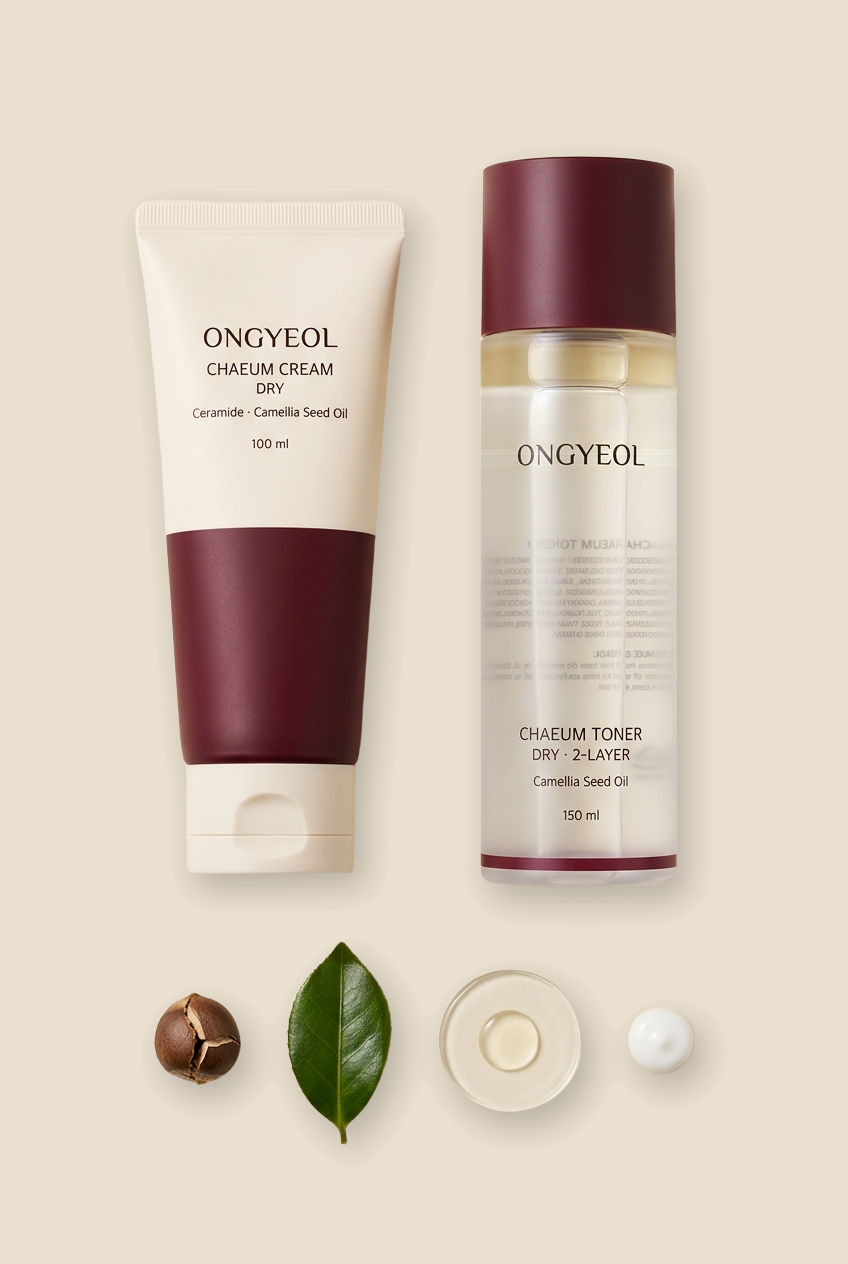
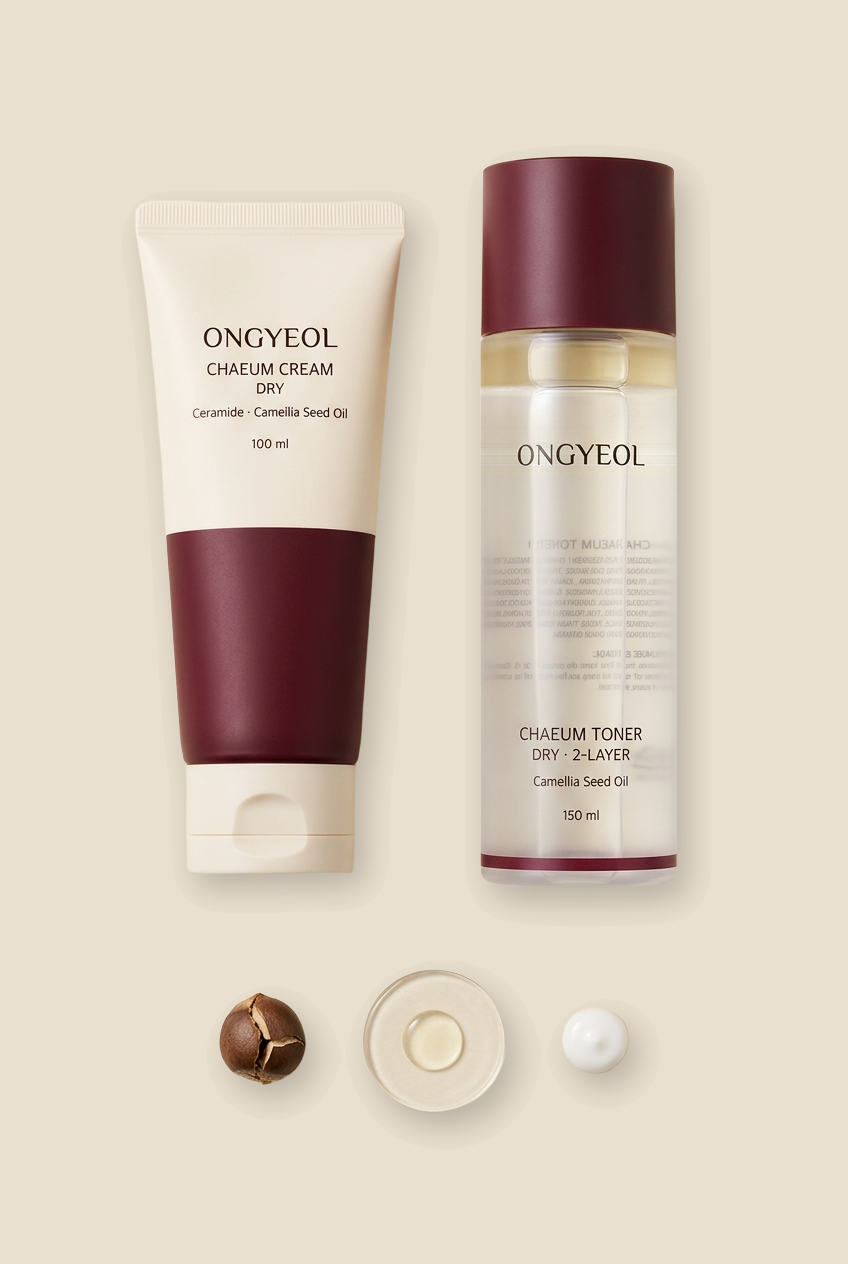
8단계 리뷰 결정 9개 반영: 광고 부제·잎 제거·상세페이지·원고(처방 가이드, 수량·손익, 같은 기준 채널표, KPI) + 장별 수정 목록
Claude-Session: https://claude.ai/code/session_01MXYaLybSstgexbFSnpQ7Pc

Changed region(s): [[0.184, 0.7405, 0.8278, 0.9256]]

diff --git a/상세페이지/건성듀오.html b/상세페이지/건성듀오.html
@@ -20,17 +20,17 @@ section{padding:0 0 36px}.label{font-size:12px;letter-spacing:.12em;color:var(--
 .two{display:grid;grid-template-columns:1fr 1fr;gap:1px;background:#e6ddd3;margin:0 24px 20px}.two div{background:var(--bg);padding:18px 14px}.two b{display:block;font-family:'Noto Serif KR',serif;font-size:20px;margin-bottom:6px}.two .lock b{color:var(--wine)}.two span{font-size:13px;line-height:1.6;color:#5c5052}
 .cap{padding:10px 24px 0}
 .metrics{margin:0 24px;display:grid;gap:12px}.metrics div{border:1px solid #e0d5c9;padding:16px}.metrics b{display:block;font-size:16px}.metrics span{display:block;font-size:13px;color:#5c5052;margin:4px 0}.metrics em{font-style:normal;font-size:12px;color:var(--wine)}
-.proof .note{padding:10px 24px 0}
+.proof .note{padding:10px 24px 0}.proof .slogan{padding:40px 24px 0;margin:0;font-size:20px}
 .ing h2{font-size:22px;padding:22px 24px 8px}.ing p{padding:0 24px 22px;font-size:14px;line-height:1.75}
 .how ol{padding:0 24px 0 44px;font-size:14px;line-height:1.75}.how li{margin-bottom:12px}.tip{margin:8px 24px 0;background:#fff;padding:16px;font-size:13px;line-height:1.7}.tip b{color:var(--wine)}
 .info table{margin:0 24px;width:calc(100% - 48px)}
 .ft{padding:28px 24px 40px;font-size:11px;color:#8c8082;line-height:1.7;border-top:1px solid #e6ddd3}
 </style></head><body><div class="page"><header class="hd"><p class="small">ONGYEOL · 가을 출시 듀오</p><h1>온결 채움 듀오 DRY</h1><p class="sub">채움 크림 DRY 100ml + 채움 토너 DRY 150ml</p></header>
-<section class="hero"><img src="../디자인/이미지/선택/v9_D1.png" alt="채움 크림 DRY"><div class="hero-copy"><h2>밤에 바르면<br>아침까지 안 당기는</h2><p class="serif slogan">마르지 않게, 무너지지 않게</p><p class="note">※ '아침까지 안 당기는' 사용감은 출시 전 사용감 평가로 확인한 범위에서만 표기합니다. (가상 시나리오)</p></div></section>
+<section class="hero"><img src="../디자인/이미지/선택/v9_D1.png" alt="채움 크림 DRY"><div class="hero-copy"><h2>밤에 바르면<br>아침까지 안 당기는</h2><p class="note">※ '아침까지 안 당기는' 사용감은 출시 전 사용감 평가로 확인한 범위에서만 표기합니다. (가상 시나리오)</p></div></section>
 <section class="worry"><p class="label">이런 피부라면</p><ul><li>세안하고 몇 분 지나면 얼굴이 당긴다</li><li>오후가 되면 볼에 각질이 일어난다</li><li>크림을 두 번 발라도 아침이면 다시 건조하다</li></ul></section>
-<section class="concept"><p class="label">채우고, 잠그는 장벽</p><div class="two"><div class="fill"><b>채움</b><span>물층의 수분이<br>각질층을 촉촉하게</span></div><div class="lock"><b>잠금</b><span>동백 씨오일이<br>얇은 막으로 마무리</span></div></div><img src="../디자인/이미지/선택/합성_D6.png" alt="밤의 루틴"><p class="small cap">바를 때는 수분감, 마무리는 얇은 막 — 두 단계로 바뀌는 텍스처</p></section>
-<section class="proof"><p class="label">두 가지를 함께 측정합니다</p><div class="metrics"><div><b>각질층 수분량</b><span>채움 — 수분이 얼마나 머무는가</span><em>수치는 시험 후 공개</em></div><div><b>경피수분손실(TEWL)</b><span>잠금 — 수분이 얼마나 덜 빠져나가는가</span><em>수치는 시험 후 공개</em></div></div><p class="note">측정 예정 지표 · 시험기관 / 기간 / 대상 / 인원은 시험 후 각주로 표기합니다. (가상 시나리오)</p></section>
-<section class="ing"><p class="label">대표 원료</p><img src="../디자인/이미지/선택/합성_D5.png" alt="동백 씨"><h2>동백 씨오일</h2><p>꽃이 아니라 <b>씨앗</b>에서 얻은 오일로, 수분을 채운 뒤 얇게 잠그는 역할을 맡습니다. 세라마이드와 함께 크림의 마무리감을 만듭니다.</p><img src="../디자인/이미지/선택/보정_D8.png" alt="원료와 제형"></section>
+<section class="concept"><p class="label">채우고, 잠그는 장벽</p><div class="two"><div class="fill"><b>채움</b><span>바를 때는<br>촉촉한 수분감</span></div><div class="lock"><b>잠금</b><span>마무리는<br>얇은 막으로</span></div></div><img src="../디자인/이미지/선택/합성_D6.png" alt="밤의 루틴"><p class="small cap">바를 때는 수분감, 마무리는 얇은 막 — 두 단계로 바뀌는 텍스처</p></section>
+<section class="proof"><p class="serif slogan">마르지 않게, 무너지지 않게</p><p class="label">두 가지를 함께 측정합니다 · 채움 크림 DRY 시험 기준</p><div class="metrics"><div><b>각질층 수분량</b><span>채움 — 수분이 얼마나 머무는가</span><em>수치는 시험 후 공개</em></div><div><b>경피수분손실(TEWL)</b><span>잠금 — 수분이 얼마나 덜 빠져나가는가</span><em>수치는 시험 후 공개</em></div></div><p class="note">측정 예정 지표 · 시험기관 / 기간 / 대상 / 인원은 시험 후 각주로 표기합니다. (가상 시나리오)</p></section>
+<section class="ing"><p class="label">대표 원료</p><img src="../디자인/이미지/선택/합성_D5.png" alt="동백 씨"><h2>동백 씨오일</h2><p>꽃이 아니라 <b>씨앗</b>에서 얻은 오일로, 세라마이드·스쿠알란과 함께 크림과 토너의 마무리감을 만듭니다.</p><img src="../디자인/이미지/선택/보정_D8_정렬.png" alt="원료와 제형"></section>
 <section class="how"><p class="label">사용법</p><ol><li><b>토너</b> 물층과 오일층이 잘 섞이도록 흔든 뒤, 눈을 감고 10~20cm 거리에서 얼굴 전체에 두세 번 뿌려 주세요.</li><li><b>크림</b> 적당량을 덜어 얼굴 전체에 펴 바른 뒤 가볍게 감싸 주세요.</li></ol><div class="tip"><b>수분은 부족한데 번들거린다면</b><p>번들거림이 신경 쓰이는 날엔 조금 더 멀리서 가볍게, 당김이 남는 곳엔 한 번 더 뿌려 보세요.</p></div></section>
 <section class="info"><p class="label">제품 정보</p><table><tr><th>구성</th><td>채움 크림 DRY 100ml · 채움 토너 DRY 150ml (2층 스프레이 토너)</td></tr><tr><th>주요 성분</th><td>세라마이드, 동백 씨오일(토너 오일층 약 5%)</td></tr><tr><th>용기</th><td>크림: 불투명 튜브 / 토너: 반투명 PET + 미세분사 펌프 + 오버캡</td></tr><tr><th>전성분 · 고시</th><td>가상 처방으로 미정 (가상 시나리오)</td></tr></table></section>
 <footer class="ft"><p>온결(가칭)은 면접용 포트폴리오를 위한 가상 브랜드입니다.</p><p>제품 이미지는 AI로 생성한 가상 브랜드 목업입니다 (일부 합성·보정).</p></footer></div></body></html>

diff --git a/상세페이지/지성듀오.html b/상세페이지/지성듀오.html
@@ -20,16 +20,16 @@ section{padding:0 0 36px}.label{font-size:12px;letter-spacing:.12em;color:var(--
 .two{display:grid;grid-template-columns:1fr 1fr;gap:1px;background:#e6ddd3;margin:0 24px 20px}.two div{background:var(--bg);padding:18px 14px}.two b{display:block;font-family:'Noto Serif KR',serif;font-size:20px;margin-bottom:6px}.two .lock b{color:var(--wine)}.two span{font-size:13px;line-height:1.6;color:#5c5052}
 .cap{padding:10px 24px 0}
 .metrics{margin:0 24px;display:grid;gap:12px}.metrics div{border:1px solid #e0d5c9;padding:16px}.metrics b{display:block;font-size:16px}.metrics span{display:block;font-size:13px;color:#5c5052;margin:4px 0}.metrics em{font-style:normal;font-size:12px;color:var(--wine)}
-.proof .note{padding:10px 24px 0}
+.proof .note{padding:10px 24px 0}.proof .slogan{padding:40px 24px 0;margin:0;font-size:20px}
 .ing h2{font-size:22px;padding:22px 24px 8px}.ing p{padding:0 24px 22px;font-size:14px;line-height:1.75}
 .how ol{padding:0 24px 0 44px;font-size:14px;line-height:1.75}.how li{margin-bottom:12px}.tip{margin:8px 24px 0;background:#fff;padding:16px;font-size:13px;line-height:1.7}.tip b{color:var(--wine)}
 .info table{margin:0 24px;width:calc(100% - 48px)}
 .ft{padding:28px 24px 40px;font-size:11px;color:#8c8082;line-height:1.7;border-top:1px solid #e6ddd3}
 </style></head><body><div class="page"><header class="hd"><p class="small">ONGYEOL · 봄 출시 듀오</p><h1>온결 채움 듀오 OILY</h1><p class="sub">채움 젤크림 OILY 100ml + 채움 토너 OILY 150ml</p></header>
-<section class="hero"><img src="../디자인/이미지/선택/v9_O5.png" alt="채움 듀오 OILY"><div class="hero-copy"><h2>가볍게 채우고,<br>얇게 잠그는</h2><p class="serif slogan">마르지 않게, 무너지지 않게</p><p class="note">※ 사용감 표현은 출시 전 사용감 평가로 확인한 범위에서만 표기합니다. (가상 시나리오)</p></div></section>
+<section class="hero"><img src="../디자인/이미지/선택/v9_O5.png" alt="채움 듀오 OILY"><div class="hero-copy"><h2>가볍게 채우고,<br>얇게 잠그는</h2><p class="note">※ 사용감 표현은 출시 전 사용감 평가로 확인한 범위에서만 표기합니다. (가상 시나리오)</p></div></section>
 <section class="worry"><p class="label">이런 피부라면</p><ul><li>T존은 번들거리는데 볼은 당긴다</li><li>가벼운 젤만 쓰면 겨울엔 금방 건조해진다</li><li>크림을 바르면 무겁고 답답하다</li></ul></section>
 <section class="concept"><p class="label">채우고, 잠그는 장벽 — 가볍게</p><div class="two"><div class="fill"><b>채움</b><span>오일 없는 한 층 토너로<br>수분을 가볍게</span></div><div class="lock"><b>잠금</b><span>젤크림의 가벼운 유분으로<br>얇게 마무리</span></div></div><img src="../디자인/이미지/선택/v10_O8.png" alt="아침 햇빛 속 듀오"><p class="small cap">건성 라인은 토너와 크림이 함께 잠그고, 지성 라인은 토너는 채움만 · 잠금은 젤크림이 맡습니다</p></section>
-<section class="proof"><p class="label">두 가지를 함께 측정합니다</p><div class="metrics"><div><b>각질층 수분량</b><span>채움 — 수분이 얼마나 머무는가</span><em>수치는 시험 후 공개</em></div><div><b>경피수분손실(TEWL)</b><span>잠금 — 수분이 얼마나 덜 빠져나가는가</span><em>수치는 시험 후 공개</em></div></div><p class="note">측정 예정 지표 · 시험기관 / 기간 / 대상 / 인원은 시험 후 각주로 표기합니다. (가상 시나리오)</p></section>
+<section class="proof"><p class="serif slogan">마르지 않게, 무너지지 않게</p><p class="label">두 가지를 함께 측정합니다 · 채움 젤크림 OILY 시험 기준</p><div class="metrics"><div><b>각질층 수분량</b><span>채움 — 수분이 얼마나 머무는가</span><em>수치는 시험 후 공개</em></div><div><b>경피수분손실(TEWL)</b><span>잠금 — 수분이 얼마나 덜 빠져나가는가</span><em>수치는 시험 후 공개</em></div></div><p class="note">측정 예정 지표 · 시험기관 / 기간 / 대상 / 인원은 시험 후 각주로 표기합니다. (가상 시나리오)</p></section>
 <section class="ing"><p class="label">제형과 성분</p><img src="../디자인/이미지/선택/v9_O1.png" alt="젤 제형"><h2>세라마이드 · 히알루론산</h2><p>투명하고 가벼운 젤에 세라마이드와 히알루론산을 담았습니다. 동백 씨오일은 건성 라인에만 넣고, 지성 라인은 유분을 적게 설계했습니다.</p><img src="../디자인/이미지/선택/v10_O7.png" alt="라벨 디테일"></section>
 <section class="how"><p class="label">사용법</p><ol><li><b>토너</b> 눈을 감고 10~20cm 거리에서 얼굴 전체에 두세 번 뿌려 주세요.</li><li><b>젤크림</b> 적당량을 덜어 얇게 펴 바르고, 당김이 남는 곳에 한 번 더 덧발라 주세요.</li></ol><div class="tip"><b>번들거림이 신경 쓰이는 날엔</b><p>젤크림은 볼 위주로 얇게, T존은 손에 남은 양으로 가볍게 정리해 보세요.</p></div></section>
 <section class="info"><p class="label">제품 정보</p><table><tr><th>구성</th><td>채움 젤크림 OILY 100ml · 채움 토너 OILY 150ml (한 층 스프레이 토너)</td></tr><tr><th>주요 성분</th><td>세라마이드, 히알루론산 (토너는 오일층 없는 한 층)</td></tr><tr><th>용기</th><td>젤크림: 불투명 튜브 / 토너: 반투명 PET + 미세분사 펌프 + 오버캡 (건성 토너와 같은 병)</td></tr><tr><th>전성분 · 고시</th><td>가상 처방으로 미정 (가상 시나리오)</td></tr></table></section>

diff --git a/광고/v5/src/명조_세로.html b/광고/v5/src/명조_세로.html
@@ -1,2 +1,2 @@
 <!DOCTYPE html><html><head><meta charset='utf-8'><style>:root{--w:1080px;--h:1350px;--u:10.8px;--fs:1.4}@import url('https://cdn.jsdelivr.net/gh/orioncactus/pretendard@v1.3.9/dist/web/static/pretendard.min.css');@font-face{font-family:'OSerif';src:url(fonts/NotoSerifKR-500.woff2);font-weight:500}@font-face{font-family:'OSerif';src:url(fonts/NotoSerifKR-700.woff2);font-weight:700}*{margin:0;padding:0;box-sizing:border-box}body{width:var(--w);height:var(--h);overflow:hidden;font-family:Pretendard,sans-serif;position:relative;background:#EAE0CF;color:#521827}img{position:absolute;display:block}.txt{position:absolute}.k{font-size:calc(var(--u)*2.2);letter-spacing:.2em;opacity:.75;font-family:Pretendard,sans-serif;font-weight:500}.h{line-height:1.3;margin:3.2% 0;white-space:nowrap}.s{line-height:1.55;opacity:.85}.fine{position:absolute;font-size:calc(var(--u)*var(--fs));opacity:.6;line-height:1.5}
-.serif .h{font-family:'OSerif',serif;font-weight:700}.serif .s{font-family:'OSerif',serif;font-weight:500}.sans .h{font-weight:700}.sans .s{font-weight:500}.h{font-size:calc(var(--u)*6.2)}.s{font-size:calc(var(--u)*2.8)}img{left:50%;top:0;height:66%;transform:translateX(-50%)}.txt{left:6%;right:6%;top:68%;text-align:center}.fine{left:6%;right:6%;bottom:2.5%;text-align:center}</style></head><body class='serif'><img src='../../../디자인/이미지/선택/보정_D8_정렬.png'><div class='txt'><p class='k'>ONGYEOL · 채움 듀오 DRY</p><h1 class='h'>밤에 바르면<br>아침까지 안 당기는</h1><p class='s'>토너로 채우고, 크림으로 잠그는 밤 루틴</p></div><p class='fine'>※ 사용감 표현은 출시 전 평가 범위 내 표기 (가상 시나리오) · AI 생성 가상 목업(일부 보정)</p></body></html>
+.serif .h{font-family:'OSerif',serif;font-weight:700}.serif .s{font-family:'OSerif',serif;font-weight:500}.sans .h{font-weight:700}.sans .s{font-weight:500}.h{font-size:calc(var(--u)*6.2)}.s{font-size:calc(var(--u)*2.8)}img{left:50%;top:0;height:66%;transform:translateX(-50%)}.txt{left:6%;right:6%;top:68%;text-align:center}.fine{left:6%;right:6%;bottom:2.5%;text-align:center}</style></head><body class='serif'><img src='../../../디자인/이미지/선택/보정_D8_정렬.png'><div class='txt'><p class='k'>ONGYEOL · 채움 듀오 DRY</p><h1 class='h'>밤에 바르면<br>아침까지 안 당기는</h1><p class='s'>토너와 크림, 채우고 잠그는 밤 루틴</p></div><p class='fine'>※ 사용감 표현은 출시 전 평가 범위 내 표기 (가상 시나리오) · AI 생성 가상 목업(일부 보정)</p></body></html>

diff --git a/광고/v5/src/명조_정사각.html b/광고/v5/src/명조_정사각.html
@@ -1,2 +1,2 @@
 <!DOCTYPE html><html><head><meta charset='utf-8'><style>:root{--w:1080px;--h:1080px;--u:10.8px;--fs:1.4}@import url('https://cdn.jsdelivr.net/gh/orioncactus/pretendard@v1.3.9/dist/web/static/pretendard.min.css');@font-face{font-family:'OSerif';src:url(fonts/NotoSerifKR-500.woff2);font-weight:500}@font-face{font-family:'OSerif';src:url(fonts/NotoSerifKR-700.woff2);font-weight:700}*{margin:0;padding:0;box-sizing:border-box}body{width:var(--w);height:var(--h);overflow:hidden;font-family:Pretendard,sans-serif;position:relative;background:#EAE0CF;color:#521827}img{position:absolute;display:block}.txt{position:absolute}.k{font-size:calc(var(--u)*2.2);letter-spacing:.2em;opacity:.75;font-family:Pretendard,sans-serif;font-weight:500}.h{line-height:1.3;margin:3.2% 0;white-space:nowrap}.s{line-height:1.55;opacity:.85}.fine{position:absolute;font-size:calc(var(--u)*var(--fs));opacity:.6;line-height:1.5}
-.serif .h{font-family:'OSerif',serif;font-weight:700}.serif .s{font-family:'OSerif',serif;font-weight:500}.sans .h{font-weight:700}.sans .s{font-weight:500}.h{font-size:calc(var(--u)*4.8)}.s{font-size:calc(var(--u)*2.4);white-space:nowrap}img{left:-92px;top:0;height:100%}.txt{left:53%;right:4%;top:33%}.fine{left:53%;right:4%;bottom:4%}</style></head><body class='serif'><img src='../../../디자인/이미지/선택/보정_D8_정렬.png'><div class='txt'><p class='k'>ONGYEOL · 채움 듀오 DRY</p><h1 class='h'>밤에 바르면<br>아침까지 안 당기는</h1><p class='s'>토너로 채우고, 크림으로 잠그는 밤 루틴</p></div><p class='fine'>※ 사용감 표현은 출시 전 평가 범위 내 표기 (가상 시나리오) · AI 생성 가상 목업(일부 보정)</p></body></html>
+.serif .h{font-family:'OSerif',serif;font-weight:700}.serif .s{font-family:'OSerif',serif;font-weight:500}.sans .h{font-weight:700}.sans .s{font-weight:500}.h{font-size:calc(var(--u)*4.8)}.s{font-size:calc(var(--u)*2.4);white-space:nowrap}img{left:-92px;top:0;height:100%}.txt{left:53%;right:4%;top:33%}.fine{left:53%;right:4%;bottom:4%}</style></head><body class='serif'><img src='../../../디자인/이미지/선택/보정_D8_정렬.png'><div class='txt'><p class='k'>ONGYEOL · 채움 듀오 DRY</p><h1 class='h'>밤에 바르면<br>아침까지 안 당기는</h1><p class='s'>토너와 크림, 채우고 잠그는 밤 루틴</p></div><p class='fine'>※ 사용감 표현은 출시 전 평가 범위 내 표기 (가상 시나리오) · AI 생성 가상 목업(일부 보정)</p></body></html>

diff --git a/광고/v5/src/명조_배너.html b/광고/v5/src/명조_배너.html
@@ -1,2 +1,2 @@
 <!DOCTYPE html><html><head><meta charset='utf-8'><style>:root{--w:1200px;--h:628px;--u:6.28px;--fs:1.6}@import url('https://cdn.jsdelivr.net/gh/orioncactus/pretendard@v1.3.9/dist/web/static/pretendard.min.css');@font-face{font-family:'OSerif';src:url(fonts/NotoSerifKR-500.woff2);font-weight:500}@font-face{font-family:'OSerif';src:url(fonts/NotoSerifKR-700.woff2);font-weight:700}*{margin:0;padding:0;box-sizing:border-box}body{width:var(--w);height:var(--h);overflow:hidden;font-family:Pretendard,sans-serif;position:relative;background:#EAE0CF;color:#521827}img{position:absolute;display:block}.txt{position:absolute}.k{font-size:calc(var(--u)*2.2);letter-spacing:.2em;opacity:.75;font-family:Pretendard,sans-serif;font-weight:500}.h{line-height:1.3;margin:3.2% 0;white-space:nowrap}.s{line-height:1.55;opacity:.85}.fine{position:absolute;font-size:calc(var(--u)*var(--fs));opacity:.6;line-height:1.5}
-.serif .h{font-family:'OSerif',serif;font-weight:700}.serif .s{font-family:'OSerif',serif;font-weight:500}.sans .h{font-weight:700}.sans .s{font-weight:500}.h{font-size:calc(var(--u)*7.2)}.s{font-size:calc(var(--u)*3.2)}img{left:76px;top:0;height:100%}.txt{left:50%;right:4%;top:27%}.fine{left:50%;right:4%;bottom:5%}</style></head><body class='serif'><img src='../../../디자인/이미지/선택/보정_D8_정렬.png'><div class='txt'><p class='k'>ONGYEOL · 채움 듀오 DRY</p><h1 class='h'>밤에 바르면<br>아침까지 안 당기는</h1><p class='s'>토너로 채우고, 크림으로 잠그는 밤 루틴</p></div><p class='fine'>※ 사용감 표현은 출시 전 평가 범위 내 표기 (가상 시나리오) · AI 생성 가상 목업(일부 보정)</p></body></html>
+.serif .h{font-family:'OSerif',serif;font-weight:700}.serif .s{font-family:'OSerif',serif;font-weight:500}.sans .h{font-weight:700}.sans .s{font-weight:500}.h{font-size:calc(var(--u)*7.2)}.s{font-size:calc(var(--u)*3.2)}img{left:76px;top:0;height:100%}.txt{left:50%;right:4%;top:27%}.fine{left:50%;right:4%;bottom:5%}</style></head><body class='serif'><img src='../../../디자인/이미지/선택/보정_D8_정렬.png'><div class='txt'><p class='k'>ONGYEOL · 채움 듀오 DRY</p><h1 class='h'>밤에 바르면<br>아침까지 안 당기는</h1><p class='s'>토너와 크림, 채우고 잠그는 밤 루틴</p></div><p class='fine'>※ 사용감 표현은 출시 전 평가 범위 내 표기 (가상 시나리오) · AI 생성 가상 목업(일부 보정)</p></body></html>

diff --git a/포트폴리오/상품기획_포트폴리오.md b/포트폴리오/상품기획_포트폴리오.md
@@ -28,10 +28,10 @@
 
 | | |
 |---|---|
-| 경력 | 앤블랭크(andblank) — 반려견 의류·가방·산책용품·식기 라이프스타일 브랜드 (연 매출 약 10억 원) |
+| 경력 | 앤블랭크(andblank) — 반려견 의류·가방·산책용품·식기 라이프스타일 브랜드 |
 | 기간·직무 | 2021.01 정직원 ~ 2025.11 / 디자이너 + 생산관리 (기획, 디자인, 공장 관리) |
 | 역할 | 브랜드 제품 업무 95% 이상 참여 — 기획, 디자인, 생산(공장 관리) |
-| 성과 | 여름 시즌 '버그가드' 의류를 메인 상품으로 기획해 **월 매출 2억 원** 달성 |
+| 성과 | 여름 시즌 '버그가드' 관련 제품을 메인으로 기획 — 성수기 **브랜드 월 매출 2억 원** 달성 (버그가드 관련 제품이 판매 비중 최상위) |
 
 - **이 프로젝트와 이어지는 점**: 공장과 직접 일정·품질을 맞춰 본 경험은 화장품 ODM 관리와 패키지 개발로 이어진다. 시즌 상품 한 개에 집중해 매출을 만든 경험은 이 기획의 "가을 히어로 크림 하나로 겨울 성수기를 잡는" 전략과 같은 방식이다.
 - **고객을 보는 방식**: 리뷰(자사몰·외부 플랫폼), 전화 문의 응대, 펫페어 현장 판매(카운터 직접 운영)로 고객 반응을 세 갈래에서 확인했다.
@@ -164,11 +164,28 @@
 | 공통 원칙 | 저자극 처방 (무향, 색소 최소화). 소비자 문구로 '저자극'을 쓰려면 첩포시험 근거가 필요 | 같음 |
 
 - **가격은 제형이 아니라 단계로 매긴다** (토너 23,000원 / 세럼·크림 32,000원). 같은 장벽 라인에서 제형만 다른 크림을 같은 가격에 두는 사례가 있다 (에스트라 크림과 수딩크림 모두 80ml 33,000원, 수딩크림 가격은 판매처 표기·계산 기준 추정).
-- **건성 토너는 2층 스프레이**: 흔들면 수분층과 동백 씨오일층이 섞여 "채움 → 잠금"이 병 안에서 보인다. 150ml는 2층 오일 토너의 일반 용량에 맞추고 100ml 미스트와 겹치지 않게 했다. 오일 5%는 공개된 2층 토너(2.5~3%)보다 높은 건성용 설정으로, 처방 시험으로 확정한다 (가상 시나리오).
+- **건성 토너는 2층 스프레이**: 흔들면 수분층과 동백 씨오일층이 섞인다. 콘셉트 '채우고, 잠그는'이 병 안에서 보이도록 한 설계다 (효능 수치는 크림 시험 기준). 150ml는 2층 오일 토너의 일반 용량에 맞추고 100ml 미스트와 겹치지 않게 했다. 오일 5%는 공개된 2층 토너(2.5~3%)보다 높은 건성용 설정으로, 처방 시험으로 확정한다 (가상 시나리오).
 - **동백은 건성 라인 전체**에 넣고, 지성 라인은 유분을 줄이는 처방이라 넣지 않는다.
 - 민감은 피부 타입이 아니라 상태로 보고, 별도 콘셉트가 아니라 처방 원칙(저자극)으로 라인 전체에 적용했다.
 
 > 근거: `기획서/상품기획서.md` 0-1·3-6·4-3, `경쟁분석_토너젤크림.md`
+
+---
+
+## 6-1. 처방 가이드 — 채움 크림 DRY와 2층 토너 (가상 처방 방향)
+
+| 항목 | 채움 크림 DRY | 채움 토너 DRY (2층) |
+|---|---|---|
+| 제형 방향 | 수상 비율이 높은 크림 → 바를 때 수분감, 흡수 후 지질 성분이 얇게 남는 2단 텍스처 | 아래 수분층 + 위 오일층(약 5%), 흔들면 잠깐 섞였다 다시 나뉨 |
+| 채움 성분 | 히알루론산, 글리세린, 판테놀 | 글리세린, 히알루론산 (수분층) |
+| 잠금 성분 | 세라마이드 조합(세라마이드엔피 등) + 콜레스테롤 + 지방산 — 피부 지질과 비슷한 구성, 스쿠알란, 동백 씨오일 | 동백 씨오일(Camellia Japonica Seed Oil) 중심 오일층 |
+| 동백 씨오일 | 에몰리언트로 세라마이드·스쿠알란과 함께 마무리감 | 오일층의 주인공 — 전성분에서 오일 중 앞에 오도록 처방 조건 |
+| 공통 원칙 | 향료 무첨가, 색소 최소화. '저자극' 문구는 첩포시험 근거가 있을 때만 | 같음 + 펌프 막힘·층 분리 안정성 시험 |
+
+- 성분명을 제품명에 넣지 않았다 (라인명 '채움'). 핵심 성분 함량은 제조사 처방 확정 후 표기한다.
+- 위 내용은 제조사 처방 전의 방향이다. 실제 원료·비율은 ODM 처방 역량과 안정도 시험으로 정한다.
+
+> 근거: `기획서/상품기획서.md` 0-1·4-3 (장벽 성분 구성), `아침확인_1120.md` (오일 5%·펌프 사양), `건성지성_라인_오일조사.md`
 
 ---
 
@@ -179,20 +196,40 @@
 - **원가 20% 가정의 근거**: 올리브영 직매입 공급가(소비자가의 60%) 기준으로 원가율 약 33%가 되어 업종 평균 매출원가율 40%보다 낮은 목표다. 시험비 배분, 동백 원료 원가, 최소 주문 수량은 견적 전이라 반영하지 않았다.
 - 타사와 가격·용량을 비교하는 광고는 하지 않는다 (비교 대상과 근거를 밝혀야 하고, 상대 가격이 바뀌면 사실과 달라진다).
 
-**채널별 남는 금액 (히어로 32,000원, 원가 20% 가정)**
+**채널별 남는 금액 — 같은 기준 (히어로 1개, 원가 20% 가정)**
 
-| 채널 | 수수료 | 남는 금액 |
-|---|---|---|
-| 자사몰 | 3% (가정) | 77% |
-| 스마트스토어 | 7% (가정) | 73% |
-| 올리브영 온라인 | 29.36% | 51% |
-| 올리브영 매장 | 40% | 40% |
-| 올리브영 매장 (부대비용 포함) | 54.74% | 25% |
+자체 채널은 정가 32,000원, 올리브영은 25% 할인 24,000원에 판다고 보고, 모든 채널에서 원가(6,400원)·수수료·광고비(판매가의 19%)·물류(판매가의 11.5%)를 뺐다.
 
-- 위 표는 수수료만 뺀 값이다 (할인·광고비·물류비·미니 증정 원가 차감 전). 자사몰·스마트스토어 수치는 결제 수수료만 반영했다. 물류·포장비를 더하면 낮아진다 (참고: 달바 2025 운반비는 매출의 약 11.5%, DART 기준 계산).
-- 올리브영에서 25% 할인 판매(24,000원)하고 광고비(판매가의 19%)를 빼면, 온라인은 판매가의 약 25%가 남고 매장(부대비용 포함)은 약 −98원으로 손익분기 수준이 된다 → **올리브영은 수익이 아니라 노출을 사는 채널**로 보고, 수익은 자체 채널이 맡는다.
+| 채널 | 판매가 | 수수료 | 남는 금액 | 판매가 대비 |
+|---|---|---|---|---|
+| 자사몰 | 32,000원 | 3% (가정) | 14,880원 | 46.5% |
+| 스마트스토어 | 32,000원 | 7% (가정) | 13,600원 | 42.5% |
+| 올리브영 온라인 | 24,000원 | 29.36% | 3,234원 | 13.5% |
+| 올리브영 매장 | 24,000원 | 40% | 680원 | 2.8% |
+| 올리브영 매장 (부대비용 포함) | 24,000원 | 54.74% | −2,858원 | −11.9% |
+
+- 물류 11.5%는 달바 2025 운반비/매출 비율(DART 기준 계산)을 빌린 가정이다. 올리브영 센터 입고는 개별 배송보다 쌀 수 있어 보수적인 값이다.
+- 미니 증정(토너 30ml + 크림 10ml)은 듀오 1건당 원가 약 1,500원 가정 → 듀오 정가 55,000원의 약 2.7%를 더 뺀다 (견적 전).
+- → **올리브영은 수익이 아니라 노출을 사는 채널**로 보고, 수익은 자체 채널이 맡는다.
 
 > 근거: 공정위 실태조사 인용 보도(2026-01 보도, 거래 기준 연도 확인 필요), 업종 평균 광고비율 리포트, `기획서/상품기획서.md` 4-2·4-2-1. 원가 20%와 자사몰 수수료는 견적 전 가정 (가상 시나리오)
+
+---
+
+## 7-1. 수량·손익 — 얼마나 만들고, 몇 개 팔아야 하나 (가상 시나리오)
+
+| 항목 | 값 (가정) | 근거 |
+|---|---|---|
+| 초도 생산 | 크림 3,000개 · 2층 토너 3,000개 | 첫 겨울 듀오 주문 2,000~2,500건(8-1 역산) + 체험단 300 + 안전재고. 대형 ODM이 인디 브랜드 MOQ를 1,000개 단위로 낮췄다는 보도(신뢰도 중간) |
+| 미니 | 토너 30ml · 크림 10ml 각 3,000개 | 듀오 구매자·체험단 증정 |
+| 개당 남는 금액 | 자사몰 14,880원 / 스마트스토어 13,600원 | 7장 같은 기준 표 |
+| 손익분기 판매량 | 고정비 ÷ 개당 남는 금액. 예: 고정비 2,000만 원(인체적용시험 + 체험단 420만~640만 원 + 디자인·촬영) → 자사몰 기준 약 1,350개 | 시험비·디자인비는 견적 전 가정 |
+| 첫 겨울 매출 목표 | 듀오 2,000~2,500건 × 55,000원 = 약 1.1억~1.4억 원 (정가 기준) | 8-1 리뷰 역산 주문 수 |
+
+- 재고 리스크: 초도 수량이 첫 겨울 판매보다 많으면 사용기한 안에 봄 재판매·올리브영 입점 기획 세트로 소진한다.
+- 실제 값은 ODM 2~3곳 MOQ·단가, 시험기관 견적으로 확정한다.
+
+> 근거: `기획서/규제_시험조사.md` 4장 (MOQ 보도), `런칭마케팅조사.md`, 7장 표
 
 ---
 
@@ -255,7 +292,7 @@
 > 🖼 `광고/v5/명조_정사각·세로·배너.png` — 광고 확정안
 > 🖼 `상세페이지/미리보기_상·하.jpg` — 건성 듀오 상세페이지 모바일 화면
 
-- **광고 (확정안)**: 크림·토너와 원료·제형 4개(동백 씨앗, 동백 잎 소품, 동백 씨오일, 크림 제형)를 위아래로 정렬한 플랫레이. 배경은 제품 사진과 같은 아이보리 한 톤, 글자는 와인 명조. 헤드라인 "밤에 바르면 아침까지 안 당기는", 부제 "토너로 채우고, 크림으로 잠그는 밤 루틴". 정사각·세로·배너 3사이즈.
+- **광고 (확정안)**: 크림·토너와 원료·제형 3개(동백 씨앗, 동백 씨오일, 크림 제형)를 위아래로 정렬한 플랫레이. 배경은 제품 사진과 같은 아이보리 한 톤, 글자는 와인 명조. 헤드라인 "밤에 바르면 아침까지 안 당기는", 부제 "토너와 크림, 채우고 잠그는 밤 루틴" (효능을 제품별로 나누지 않는다 — 두 지표는 크림 한 제품으로 시험). 정사각·세로·배너 3사이즈.
   - 왜 이렇게: 경쟁의 흰색 + 파랑, 물방울 연출과 겹치지 않고, 원료가 제품 바로 아래 보이도록 해 대표 원료(동백 씨오일)가 함께 읽히도록 의도했다. 헤드라인은 성분이 아니라 고객이 느끼는 시간(밤 → 아침)이라 감각을 전하는 명조를 썼다.
   - 사용감 표현은 출시 전 평가 범위 안에서만 쓴다는 각주를 광고에 넣었다 (가상 시나리오).
 - **상세페이지**: 본문에는 가격·증정·리필을 넣지 않았다 (판매 정보는 상품 옵션 영역에서 다룬다는 전제). 사용법은 "흔든 뒤, 눈을 감고 10~20cm 거리에서 두세 번".
@@ -293,7 +330,7 @@
 | 시점 | 할 일 |
 |---|---|
 | T-12개월 | 콘셉트·히어로 확정, 제조사 선정, 처방 착수 |
-| T-9개월 | 처방 확정, 안정도 시험, 용기(튜브) 선정 |
+| T-9개월 | 처방 확정, 안정도 시험(2층 토너 층 분리·펌프 막힘 포함), 용기(튜브·스프레이 펌프) 선정 |
 | T-6개월 | 인체적용시험 시작 (각질층 수분량 + TEWL, 4주 사용 기준) |
 | T-3개월 | 시험 결과 확보, 패키지·상세페이지 확정, 생산 발주 |
 | T-1개월 | 생산·입고, 자사몰·스마트스토어 등록 |
@@ -324,7 +361,9 @@
 
 | 시점 | 지표 | 목표 (가정) | 왜 |
 |---|---|---|---|
-| 첫 겨울 끝 | 리뷰 수 (체험단 + 구매) | 500건 (체험단 300 + 구매 200) | 올리브영 MD에게 보여줄 지표. 1,000건은 역산 결과 비현실적이라 하향 |
+| 첫 겨울 끝 | 구매 리뷰 수 (자사몰·스마트스토어) | 200건 | 실제 구매자의 반응. 1,000건은 역산 결과 비현실적이라 전체 500건으로 하향 |
+| 첫 겨울 끝 | 체험단 콘텐츠 수 | 300건 | 초기 노출·검색 콘텐츠 (판매 지표와 분리) |
+| 첫 겨울 끝 | 주간 판매량 (자체 채널) | 기준선 확보 | 올리브영 MD에게 보여줄 판매 속도 |
 | 첫 겨울 끝 | 아침 당김 만족도 (구매자 설문) | 측정 | 고객 약속(아침까지 안 당김)이 실제로 느껴지는지 |
 | 첫 겨울 끝 | 히어로 재구매율 | 측정 시작, 기준선 확보 | 크림은 재구매가 핵심 |
 | 첫 겨울 끝 | 컬리 수수료 후 공헌이익 | 자사몰 대비 비교 | 외부 채널 확장 판단 |
@@ -385,7 +424,7 @@
 장벽 크림은 리뷰 1위가 있을 만큼 큰 카테고리지만, 세라마이드 중심이라 제품 간 차이가 작습니다. 건성과 수분 부족 지성을 합치면 20~49세 여성의 약 절반(오픈서베이 2022)이고, 공통 고민이 "수분이 머물지 않는다"입니다. 그래서 "밤에 바르면 아침까지 안 당기는" 장벽 크림을 히어로로, 건성이 늘기 시작하는 30대를 주 타깃으로 기획했습니다.
 
 **Q2. 아토베리어365, 피지오겔 DMT와 뭐가 다른가요? 피지오겔도 보습·장벽 수치를 내는데요.**
-맞습니다. 피지오겔도 보습 유지와 장벽 개선 수치를 각주와 함께 공개하고, 실증 자체는 이미 업계 관행입니다. 고객이 저희를 고르는 이유는 "밤에 바르면 아침까지 안 당긴다"는 시간 약속과, 바를 때 수분감에서 얇은 막으로 바뀌는 제형입니다. 증명 방식의 차이는 두 가지입니다. 첫째, 콘셉트 문장 "채우고, 잠그는"부터 라인명, 원료 역할, 패키지 앞면 두 칸, 상세페이지 실증 구간까지 같은 두 지표(각질층 수분량, 수분 손실)로 끝까지 이어지게 설계했습니다. 둘째, 시험기관·대상·기간·측정 시점을 전부 공개하고, '잠금'은 바른 직후가 아니라 지속 시점으로 측정합니다. 피지오겔과 표현('속건조·장벽케어')이 겹쳐 콘셉트 문장도 바꿨습니다.
+맞습니다. 피지오겔도 보습 유지와 장벽 개선 수치를 각주와 함께 공개하고, 실증 자체는 이미 업계 관행입니다. 고객이 저희를 고르는 이유는 "밤에 바르면 아침까지 안 당긴다"는 시간 약속과, 바를 때 수분감에서 얇은 막으로 바뀌는 제형입니다. 증명 방식의 차이는 두 가지입니다. 첫째, 콘셉트 문장 "채우고, 잠그는"부터 라인명, 원료 역할, 원료 역할, 상세페이지 실증 구간까지 같은 두 지표(각질층 수분량, 수분 손실)로 끝까지 이어지게 설계했습니다. 둘째, 시험기관·대상·기간·측정 시점을 전부 공개하고, '잠금'은 바른 직후가 아니라 지속 시점으로 측정합니다. 피지오겔과 표현('속건조·장벽케어')이 겹쳐 콘셉트 문장도 바꿨습니다.
 
 **Q3. 동백은 라운드랩도 쓰는데 왜 동백인가요?**
 라운드랩 동백 라인은 판매처 표기상 동백꽃 추출물을 탄력 포지션으로 씁니다. 저희는 동백 씨오일을 건성 라인의 '잠금' 상징으로 씁니다. 잠금의 주역은 세라마이드와 스쿠알란이고, 동백 씨오일은 에몰리언트로 함께 맡습니다. 제주 산지 스토리는 라운드랩도 쓰기 때문에 차별점으로 두지 않았습니다. 같은 종(*C. japonica*) 오일 연구는 소규모라 효능은 자체 시험으로만 말합니다.
@@ -439,7 +478,7 @@
 아직은 출시 전 시험 계획입니다. 마지막 도포 후 약 8시간 시점의 수분량·수분 손실 측정과 아침 당김 사용감 설문을 시험에 넣고, 결과 범위 안에서만 그 문장을 씁니다. 결과가 약하면 표현을 낮춥니다.
 
 **Q20. 화장품 업계 경험이 없고, 기획·디자인 인력은 여성이 많은 시장인데 어떻게 고객을 이해하나요?**
-고객 이해는 성별보다 조사와 검증 방식에서 나온다고 봅니다. 이 기획에서는 피부 타입 조사(오픈서베이 1,500명)로 타깃을 정했고, 리뷰·사용법 문구를 직접 비교해 고객 언어("속당김", "수부지")로 썼습니다. 이전 회사에서는 자사몰·외부 플랫폼 리뷰, 고객 전화 문의, 메가주 펫페어 현장 반응을 모두 봤습니다. 전화 문의에는 직접 설명하고 해결 방법을 제시해 오히려 만족도가 올라갔고, 펫페어에서는 카운터를 맡아 계산·응대하며 어떤 상품이 할인 없이도 팔리는지 직접 확인했습니다. 이렇게 본 고객 반응으로 여름 시즌 상품을 키워 월 매출 2억 원을 만들었습니다.
+고객 이해는 성별보다 조사와 검증 방식에서 나온다고 봅니다. 이 기획에서는 피부 타입 조사(오픈서베이 1,500명)로 타깃을 정했고, 리뷰·사용법 문구를 직접 비교해 고객 언어("속당김", "수부지")로 썼습니다. 이전 회사에서는 자사몰·외부 플랫폼 리뷰, 고객 전화 문의, 메가주 펫페어 현장 반응을 모두 봤습니다. 전화 문의에는 직접 설명하고 해결 방법을 제시해 오히려 만족도가 올라갔고, 펫페어에서는 카운터를 맡아 계산·응대하며 어떤 상품이 할인 없이도 팔리는지 직접 확인했습니다. 이렇게 본 고객 반응으로 여름 시즌 '버그가드' 관련 제품을 키웠고, 성수기 브랜드 월 매출 2억 원을 만들었습니다. 그달 판매 비중이 가장 높은 제품군이 버그가드였습니다.
 
 **Q21. 2층 스프레이면 달바 퍼스트 스프레이 세럼과 같은 것 아닌가요?**
 형식(2층·흔들어 분사)은 비슷하지만 제품이 다릅니다. 달바는 공식몰에서 '스프레이 세럼(페이셜 미스트)'으로 분류하고 토너를 따로 둡니다. 온결은 세안 직후 첫 단계인 토너이고, 오일층의 주인공이 동백 씨오일로 크림의 '잠금' 앞 단계 역할을 맡습니다. 2층 오일 토너는 이미 시장에 있어서 형식이 아니라 "건성 장벽 라인 + 동백 씨오일 + 150ml 토너"의 조합으로 차별합니다.

diff --git a/기획서/장별수정_1123.md b/기획서/장별수정_1123.md
@@ -1,0 +1,77 @@
+# Figma 장별 수정 목록 (2026-11-23)
+
+- 대상: Figma "포트폴리오 v1 (21장)" → **23장**으로 바뀐다 (처방 가이드·수량/손익 추가, 키비주얼 이동)
+- 반영: 현업 리뷰 결정 9개 (1-1, 2-A, 3-A, 4-A, 5-A, 6-A, 7-A, 8-A, 9-A) + 송현준 피드백(문단 나눔·정렬, 마지막 장 누끼)
+- 공통 정렬·문단 규칙은 `기획서/Figma_직접수정_1123.md` 1·2장. 아래 "정렬"은 그 규칙을 그 장에 적용하라는 뜻.
+- 새 이미지 파일 (모두 main에 있음):
+  - `디자인/이미지/선택/보정_D8_정렬.png` — 동백 잎을 뺀 플랫레이 (3-A)
+  - `광고/v5/명조_정사각.png`, `명조_세로.png` — 부제 "토너와 크림, 채우고 잠그는 밤 루틴" + 잎 없음 (1-1, 3-A)
+  - `상세페이지/미리보기_상.jpg`, `미리보기_하.jpg` — 상세페이지 새 캡처 (1-1, 2-A, 3-A)
+  - `디자인/누끼/합성_D6_누끼.png` — 마지막 장 누끼
+- **이미지 바꾸는 법**: 이미지 사각형 선택 → 오른쪽 Fill의 이미지 썸네일 클릭 → "Choose image" → 새 파일. 맞춤 방식(Fill/Fit)은 그대로 둔다.
+- **장 번호**: 순서를 바꾼 뒤 각 장 왼쪽 위 숫자(01~23)와 프레임 이름을 새 번호로 고친다.
+
+---
+
+| 새 번호 | 현재 프레임 | 할 일 |
+|---|---|---|
+| 01 표지 | 01 | ① 오른쪽 이미지를 새 `보정_D8_정렬.png`로 교체 (잎 없음) ② 정렬 |
+| 02 지원자 소개 | 02 | ① 경력 칸: "(연 매출 약 10억 원)" 삭제 ② 성과 칸을 다음으로 교체: **여름 시즌 '버그가드' 관련 제품을 메인으로 기획 — 성수기 브랜드 월 매출 2억 원 달성 (버그가드 관련 제품이 판매 비중 최상위)** ③ 핵심 메시지 줄: "시즌 상품 하나로 월 매출 2억 원을 만들었다" → **"시즌 메인 제품을 기획해 성수기 브랜드 월 매출 2억 원을 만들었다"** ④ 오른쪽 단 문단 정리 |
+| 03 기획 배경 | 03 | 카드 4개 설명 줄바꿈 정리 ("(화장품 18.1조 원 중," 뒤, "2025 올리브영 어워즈" 한 줄) |
+| 04 타깃 | 04 | 오른쪽 단 줄바꿈 정리 |
+| 05 페르소나 | 05 | (반영 완료: 지호 구매 장면 "네이버 쇼핑·화해") 정렬만 |
+| 06 경쟁 분석 | 06 | 정렬만 |
+| 07 콘셉트 | 07 | 정렬만 |
+| 08 히어로 | 08 | 불릿 3개 줄바꿈 정리 |
+| 09 라인 구성 | 09 | ① (반영 완료: 건성 이미지 합성_D6) ② 오른쪽 아래 설명 교체: **"건성 토너는 흔들면 수분층과 동백 씨오일층이 섞인다 — 콘셉트 '채우고, 잠그는'이 병 안에서 보이도록 설계. 효능 수치는 크림 시험 기준. 동백은 건성 라인에만."** |
+| **10 처방 가이드 (새 장)** | 09를 복제 (Ctrl+D) | 아래 "새 장 10" 내용으로 제목·메시지·표를 바꾸고 이미지 2개와 오른쪽 설명은 지운다 |
+| 11 가격 전략 | 10 | ① 오른쪽 차트 제목: **"채널별 남는 금액 — 같은 기준 (원가·수수료·광고비 19%·물류 11.5% 차감)"** ② 막대 값 교체 (막대 길이 = 값 × 9px): 자사몰 **46.5%**, 스마트스토어 **42.5%**, 올리브영 온라인 **13.5%**, 올리브영 매장 **2.8%**, 매장+부대비용 **−11.9%** (마지막은 막대 없이 "−11.9% (손실)" 글자만) ③ 왼쪽 셋째 불릿 설명: **"같은 기준으로 올리브영 온라인 13.5%, 매장(부대비용 포함) −11.9%. 수익은 자체 채널이 맡는다."** ④ 출처 줄 끝에 **" · 물류 11.5%는 달바 2025 운반비율 참고 가정"** 추가 |
+| **12 수량·손익 (새 장)** | 10(가격)을 복제 | 아래 "새 장 12" 내용으로 바꾸고 차트는 지운다 |
+| 13 채널·출시 | 11 | ① 오른쪽 이미지 삭제 (4-A) ② 오른쪽 아래 AI 고지 문구 삭제 (이미지가 없어졌으므로) ③ 타임라인 4칸을 오른쪽 끝(1780)까지 넓힘: 칸 간격 310 → **410**, 선 길이 1220 → **1640** ④ 아래 불릿 폭 1640 ⑤ 핵심 메시지 폭 1640 |
+| 14 런칭 마케팅 | 12 | 정렬만 |
+| 15 브랜딩 | 13 | 핵심 메시지 글 상자 폭 1640으로 넓혀 한 줄로 |
+| 16 광고·상세페이지 | 14 | ① 광고 이미지 2개를 새 `명조_정사각.png`, `명조_세로.png`로 교체 ② 상세 이미지 2개를 새 `미리보기_상.jpg`, `미리보기_하.jpg`로 교체 ③ 핵심 메시지 끝의 **"(잎은 소품, 처방 원료 아님)" 삭제** (잎을 뺐으므로) ④ 오른쪽 첫 불릿 설명 교체: **"\"밤에 바르면 아침까지 안 당기는\" — 고객이 느끼는 시간이라 감각을 전하는 명조. 부제 \"토너와 크림, 채우고 잠그는 밤 루틴\"은 효능을 제품별로 나누지 않는다."** ⑤ 둘째 불릿 끝에 **" 슬로건은 실증 구간에만."** 추가 |
+| 17 패밀리룩 | 15 | ① 표 첫 열 "아래 칸 색" → **"라인 색"** ② 건성 둘째 이미지(보정_D8, 잎 있음)를 새 `보정_D8_정렬.png`로 교체 (3-A와 맞춤) |
+| 18 키비주얼 점검 | 20 → **17 뒤로 이동** | ① 프레임을 패밀리룩 바로 뒤 자리로 옮긴다 ② 오른쪽 좁은 단 폭을 늘리거나 두 줄씩 나눔 |
+| 19 실행 계획 | 16 | T-9개월 줄 교체: **"처방 확정, 안정도 시험(2층 토너 층 분리·펌프 막힘 포함), 용기(튜브·스프레이 펌프) 선정"** |
+| 20 리스크 | 17 | 정렬만 |
+| 21 성과 지표 | 18 | 표 첫 데이터 행(리뷰 수 500건)을 아래 3행으로 교체 (7-A): ① 첫 겨울 끝 / **구매 리뷰 수 (자사몰·스마트스토어)** / **200건** / 실제 구매자 반응. 전체 리뷰 목표는 역산으로 500건 ② 첫 겨울 끝 / **체험단 콘텐츠 수** / **300건** / 초기 노출·검색 콘텐츠 (판매 지표와 분리) ③ 첫 겨울 끝 / **주간 판매량 (자체 채널)** / **기준선 확보** / 올리브영 MD에게 보여줄 판매 속도. 굵게 표시는 둘째 행 → 첫 행 '200건'으로 |
+| 22 레퍼런스 달바 | 19 | 정렬만 (반영 완료: 마지막 행 문구) |
+| 23 마무리 | 21 | 누끼 시안 3 적용: ① 왼쪽 사진 삭제 ② `합성_D6_누끼.png`를 넣고 높이 760, x 1080, y 170 ③ Drop shadow X 18 / Y 22 / Blur 26 / #521827 18% ④ 글 묶음을 x 140으로 옮김 (제목 y 380, 선 y 490, 슬로건 y 530, "감사합니다" y 700, 고지 y 960) |
+
+---
+
+## 새 장 10 — 처방 가이드
+
+- 장 이름: **처방 가이드**
+- 제목: **채움 크림 DRY와 2층 토너**
+- 한 줄 메시지: **처방 전 방향이다 — 실제 원료·비율은 ODM 처방 역량과 안정도 시험으로 정한다**
+- 표 (3열: 항목 / 채움 크림 DRY / 채움 토너 DRY (2층))
+
+| 항목 | 채움 크림 DRY | 채움 토너 DRY (2층) |
+|---|---|---|
+| 제형 방향 | 수상 비율이 높은 크림 → 바를 때 수분감, 흡수 후 지질 성분이 얇게 남는 2단 텍스처 | 아래 수분층 + 위 오일층(약 5%), 흔들면 섞였다 다시 나뉨 |
+| 채움 성분 | 히알루론산, 글리세린, 판테놀 | 글리세린, 히알루론산 (수분층) |
+| 잠금 성분 | 세라마이드 조합(세라마이드엔피 등) + 콜레스테롤 + 지방산, 스쿠알란, 동백 씨오일 | 동백 씨오일(Camellia Japonica Seed Oil) 중심 오일층 |
+| 동백 씨오일 | 에몰리언트로 세라마이드·스쿠알란과 함께 마무리감 | 오일층의 주인공 — 전성분에서 오일 중 앞에 오도록 |
+| 공통 원칙 | 향료 무첨가, 색소 최소화. '저자극' 문구는 첩포시험 근거가 있을 때만 | 같음 + 층 분리·펌프 막힘 안정성 시험 |
+
+- 출처 줄: **근거: 피부 지질 구성(세라마이드·콜레스테롤·지방산) 처방 사례 · 2층 오일 토너 시장 조사 · 처방은 가상 시나리오**
+
+## 새 장 12 — 수량·손익
+
+- 장 이름: **수량·손익**
+- 제목: **얼마나 만들고, 몇 개 팔아야 하나**
+- 한 줄 메시지: **초도는 첫 겨울 주문 역산 + 체험단 + 안전재고, 손익분기는 같은 기준의 개당 남는 금액으로 계산한다**
+- 표 (3열: 항목 / 값 (가정) / 근거)
+
+| 항목 | 값 (가정) | 근거 |
+|---|---|---|
+| 초도 생산 | 크림 3,000개 · 2층 토너 3,000개 | 듀오 주문 2,000~2,500건(리뷰 역산) + 체험단 300 + 안전재고. 대형 ODM이 인디 MOQ를 1,000개 단위로 낮췄다는 보도 |
+| 미니 | 토너 30ml · 크림 10ml 각 3,000개 | 듀오 구매자·체험단 증정 |
+| 개당 남는 금액 | 자사몰 14,880원 / 스마트스토어 13,600원 | 11장 같은 기준 |
+| 손익분기 판매량 | 고정비 2,000만 원 가정 ÷ 14,880원 ≈ 1,350개 | 고정비 = 인체적용시험 + 체험단 420만~640만 원 + 디자인·촬영 (견적 전) |
+| 첫 겨울 매출 목표 | 약 1.1억~1.4억 원 (듀오 2,000~2,500건 × 55,000원) | 리뷰 역산 주문 수, 정가 기준 |
+
+- 아래 한 줄: **재고가 남으면 사용기한 안에 봄 재판매·올리브영 입점 기획 세트로 소진한다. 실제 값은 ODM 2~3곳 견적으로 확정.**
+- 출처 줄: **근거: 화장품 ODM MOQ 보도(2023~) · 리뷰 작성률 역산 · 수치는 견적 전 가정 (가상 시나리오)**

diff --git a/기획서/상품기획서.md b/기획서/상품기획서.md
@@ -24,7 +24,7 @@
 | 5 | 제출용 포트폴리오 작성, 면접 예상 질의응답 | **완료** — 포트폴리오 v0.5 (11-23, 송현준 피드백·6~7단계 결과 반영) |
 | 6 | 패키지 디자인, 제품 이미지 (시안 3개 이상, 번호) | **완료** — 선택 컷 8개 (11-21, `디자인/이미지/선택/`), 패키지 평면도 시안 1 (11-23) |
 | 7 | 광고 이미지, 상세페이지 (HTML, 모바일) | **완료** — 상세페이지 건성·지성 (11-22), 광고 v5 명조 (11-23) |
-| 8 | Figma 포트폴리오 조립 | **진행 중** — v1 21장 조립 (11-23), 현업 리뷰 중 |
+| 8 | Figma 포트폴리오 조립 | **진행 중** — v1 21장 조립, 현업 리뷰 반영 결정(11-23). Figma MCP 한도로 사용자가 `장별수정_1123.md` 기준 직접 수정 |
 
 ## 0-1. 2026-11-17 사용자 결정 [확정]
 
@@ -58,6 +58,7 @@
 | 지성 토너 용기·용량·제형 (11-21) | **건성 토너와 같은 150ml 일자 원통 스프레이 병 + 감 오렌지 오버캡, 한 층(오일 없음), 23,000원** (11-21 사용자 확정, 제형은 조사 후 재확정) | 근거: 같은 금형·펌프로 원가·MOQ 부담↓, 패밀리룩, 토너 가격 단일화. 기존 '300ml(봄 기획)' 대체. 제형 근거: 지성용 토너 사례 모두 무오일, 지성용 2층 사례 없음 → OILY는 토너 = 채움, 잠금 = 젤크림의 가벼운 유분(실리콘·에스터·스쿠알란)으로 역할 분담 (`건성지성_라인_오일조사.md`) |
 | 패키지 색 (11-20) | **건성 DRY = 와인 투톤 (위 아이보리 #F3ECE2 + 아래 와인 #5A1A2A) / 지성 OILY = 감 오렌지 투톤 (위 아이보리 + 아래 감 오렌지 #C8553D)**. 위 칸 공통으로 패밀리룩, 와인 = 밤·리치(건성) / 오렌지 = 아침·가벼움(지성) (11-20 사용자 확정) | 근거 `패키지색_선호조사.md`. 지성 투톤 이미지는 새로 생성 필요. 와인은 어둡게, 핑크·꽃 금지(라운드랩 동백 회피), 오렌지는 절반 면적·배경 오렌지 금지(달바·설화수 회피) |
 | 광고·포트폴리오 디자인 (11-23) | **광고 = v2 3번 이미지(재료 플랫레이) + 1번 배치 + 2번 텍스트 조합 → v5: 배경 단색 #EAE0CF, 텍스트 와인, 재료 줄은 크림·토너 중심의 가운데 균등 정렬(배치 2안), 헤드라인 명조 (11-23 사용자 확정). 패키지 평면도 = 영문 라벨 시안 1 (11-23). 슬라이드 = 원고 1장 단위 21장 + 아이보리 미니멀 시안 1, 표지 이미지 보정_D8_정렬, 9장 건성 이미지 합성_D6 (11-23)** | 후보: 광고 v2 1~4 조합, 명조/고딕, 배치 1~3안 / 평면도 영문·국문·채움잠금 2칸 / 슬라이드 시안 1~3. 선택 이유는 각 단계 보고(제품 사진 라벨과 일치, 표가 많은 장에 맞는 왼쪽 정렬 그리드). 기록 `기획서/슬라이드_목차.md` |
+| 8단계 리뷰 후속 (11-23) | **1-1 광고 부제 "토너와 크림, 채우고 잠그는 밤 루틴"(효능을 제품별로 나누지 않음, 두 지표는 크림 시험) + 상세페이지 채움/잠금 주어를 크림 2단 텍스처로 / 2-A 슬로건은 실증 구간으로 / 3-A 동백 잎 제거(광고·표지·상세·패밀리룩) / 4-A 채널 장 이미지 삭제 / 5-A 처방 가이드·수량/손익 장 추가, 안정성 시험 일정, 키비주얼 장을 패밀리룩 뒤로 (23장) / 6-A 채널 표 같은 기준(원가·수수료·광고비 19%·물류 11.5%) / 7-A 리뷰 지표 분리 + 주간 판매량 / 8-A 투톤 = 위 공통·아래 라인 색 / 9-A 월 매출 2억 = 성수기 브랜드 전체, 버그가드 관련 제품 비중 최상위 / 연 매출 10억 표기 삭제** (11-23 사용자 확정) | 근거 `아침확인_1123.md`, 리뷰 기록 7장. 오일 3% 대비안은 11-20 결정대로 포트폴리오에 넣지 않음. 지성 상세페이지의 '토너 = 채움, 젤크림 = 잠금' 분담(11-21 결정)은 유지하고 측정 구간에 "채움 젤크림 OILY 시험 기준"만 추가 |
 | 건성 토너 제형 (11-19) | **2층 토너 (아래 수분층 + 위 동백 씨오일층) / 150ml / 오일 5 wt% (수정 가능, 원료사 처방 확인 전제) / 흔들어 쓰는 스프레이 + 리필 / 슬림 원통 + 색 불투명 오버캡(건성 와인 / 지성 감 오렌지, 병과 같은 지름, 11-20 확정), 하단 얇은 색 링, 골드·금속 금지, 펌프 = 미세분사·1회 0.12~0.15ml·딥튜브 바닥까지·오일 내성 노즐 (11-20 확정)** (11-19~20 사용자 확정). 크림 튜브는 불투명 | 수부지 안내: 공통 사용법(용기) "물층과 오일층이 잘 섞이도록 흔든 뒤, 눈을 감고 10~20cm 거리에서 얼굴 전체에 두세 번 뿌려 주세요." + 수부지 팁(상세페이지·듀오 카드) "번들거림이 신경 쓰이는 날엔 조금 더 멀리서 가볍게, 당김이 남는 곳엔 한 번 더 뿌려 보세요." (11-20 확정, 광고 자문 전제). 차별 근거: 카테고리(달바=스프레이 세럼/미스트, 우리=토너), 동백 씨오일 주인공(전성분에서 오일 중 앞에 오도록 처방 조건), 건성 장벽 라인의 잠금 앞 단계, 150ml. '토너에 오일' 자체는 기존 제품 있음 (`오일토너_시장조사.md`) |
 | 동백 적용 범위 | **건성 라인 전체** (토너·세럼·크림, 11-17 확정). 지성 라인은 유분을 적게 하는 처방(3-6)이라 넣지 않는다 | 제품명에 '동백'을 넣을 경우 함량 표시 의무 확인 |
 | 지성 공백 대응 | **② 가을 듀오에 수부지 사용법 안내 + ③ 봄 출시는 젤크림 먼저** (11-17 확정) | 봄 출시 순서: 젤크림 → 지성 토너·세럼 (건성 세럼 포함 시점은 5단계에서 정리) |

diff --git a/기획서/슬라이드_목차.md b/기획서/슬라이드_목차.md
@@ -79,3 +79,10 @@
 - 13장 패키지 이미지는 `디자인/패키지시안_v2/평면도.png` (시안 제목 없는 버전)
 - 21장 마무리 이미지는 `합성_D6.png` (표지와 중복 피함)
 - 남은 것: 13장 "지원사 맞춤"은 회사가 정해지면 추가, 면접 Q&A는 슬라이드 밖 문서
+
+
+## 5. 23장 순서 (11-23 리뷰 결정 5-A)
+
+01 표지 · 02 지원자 소개 · 03 기획 배경 · 04 타깃 · 05 페르소나 · 06 경쟁 분석 · 07 콘셉트 · 08 히어로 · 09 라인 구성 · **10 처방 가이드(새)** · 11 가격 · **12 수량·손익(새)** · 13 채널·출시(이미지 삭제) · 14 런칭 마케팅 · 15 브랜딩 · 16 광고·상세페이지 · 17 패밀리룩 · **18 키비주얼 점검(이동)** · 19 실행 계획 · 20 리스크 · 21 성과 지표 · 22 레퍼런스 · 23 마무리(누끼 시안 3)
+
+- 장별 수정 내용: `기획서/장별수정_1123.md`

diff --git a/기획서/아침확인_1123.md b/기획서/아침확인_1123.md
@@ -1,5 +1,7 @@
 # 확인 요청 (2026-11-23) — 8단계 현업 리뷰 후속
 
+> **11-23 사용자 결정: 1-1 / 2-A / 3-A / 4-A / 5-A / 6-A / 7-A / 8-A / 9-A (버그가드 관련 제품이 판매 비중 최상위).** 반영 목록 `장별수정_1123.md`
+
 현업 리뷰어 8단계 검증 결과 중 **확정된 결정·결과물을 바꿔야 하는 것**만 모았다. 문구·계산·문서 불일치는 바로 고쳤다 (`상품기획서.md` 7장 "[리뷰어 8단계]" 행).
 
 ---
